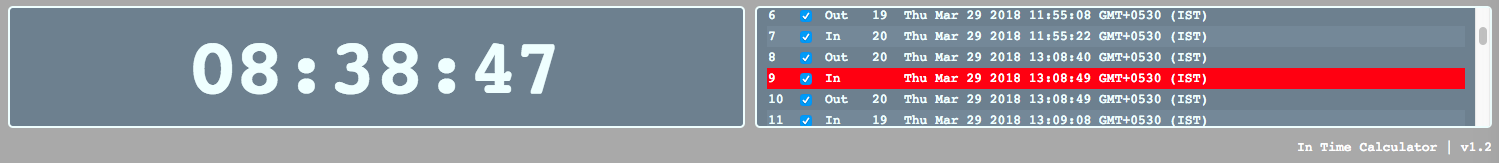
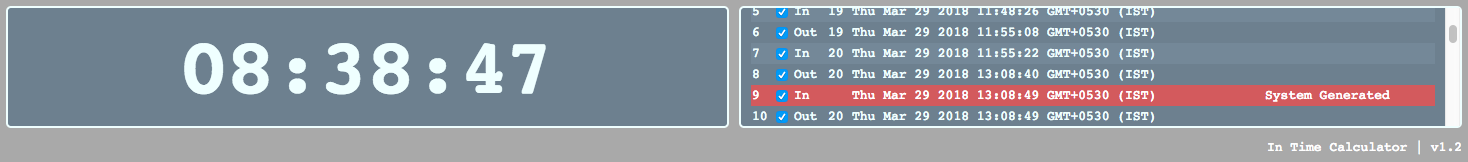
Updated screenshot , dirty flags, dirty css and version

diff --git a/calc.js b/calc.js
@@ -98,8 +98,14 @@
       $($tr).append(cellData(swipe.doorname));
       $($tr).append(cellData(swipe.dateobject.toString()));
 
-      if (swipe.dirtyflag || (i !== 0 && swipe.inoutindicator === swipeData[i - 1].inoutindicator)) {
+      if (swipe.dirtyflag) {
+        $($tr).append(cellData('System Generated'));
         $($tr).addClass('dirty');
+      } else if (i !== 0 && swipe.inoutindicator === swipeData[i - 1].inoutindicator) {
+        $($tr).append(cellData('Improper Sequence'));
+        $($tr).addClass('dirty');
+      } else {
+        $($tr).append(cellData(''));
       }
 
       $($table).append($tr);

diff --git a/style.css b/style.css
@@ -27,7 +27,7 @@
 }
 
 #itc_wrapper .swipe_data .dirty > td {
-  background-color: red !important;
+  background-color: indianred !important;
   color: white !important;
 }
 
